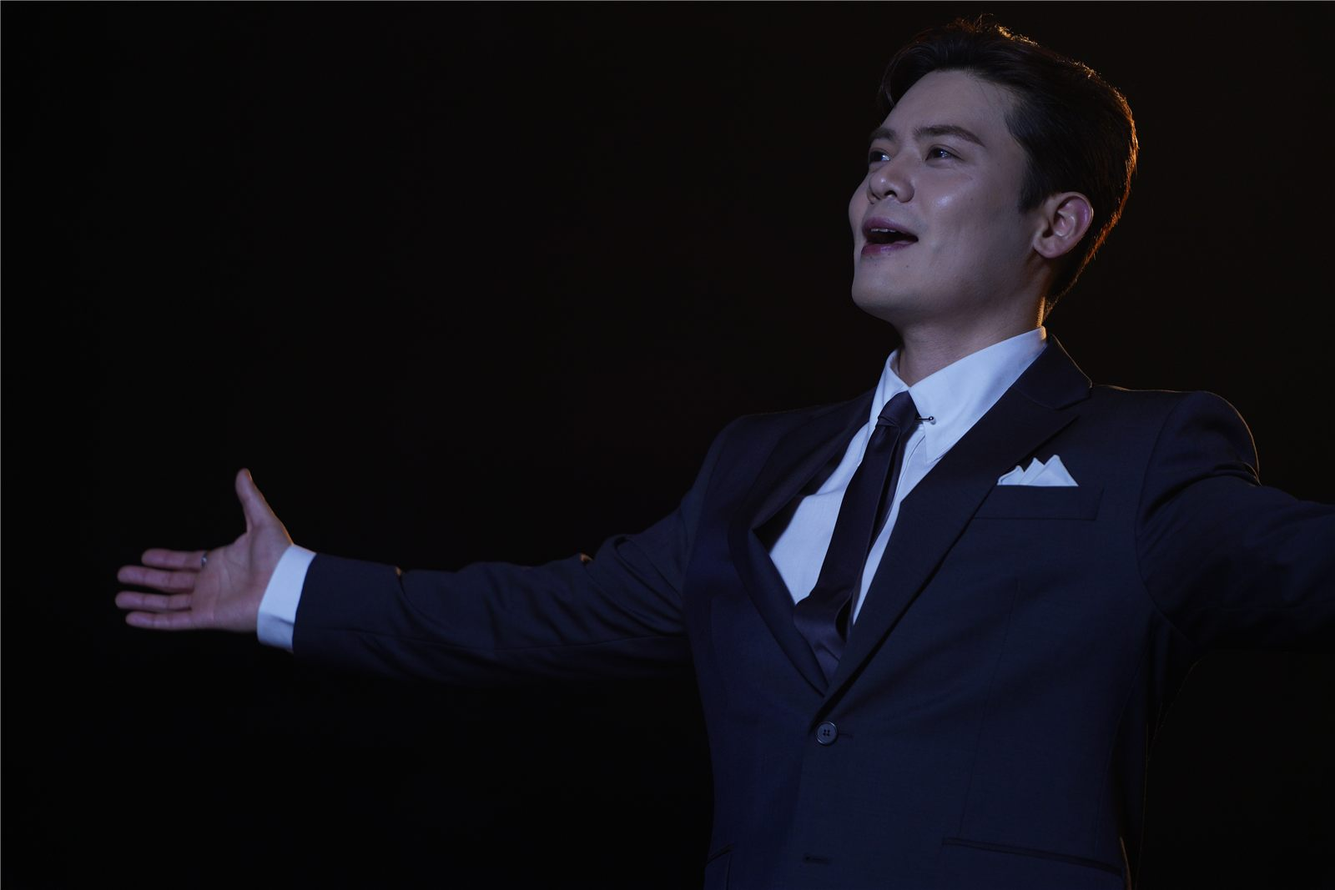
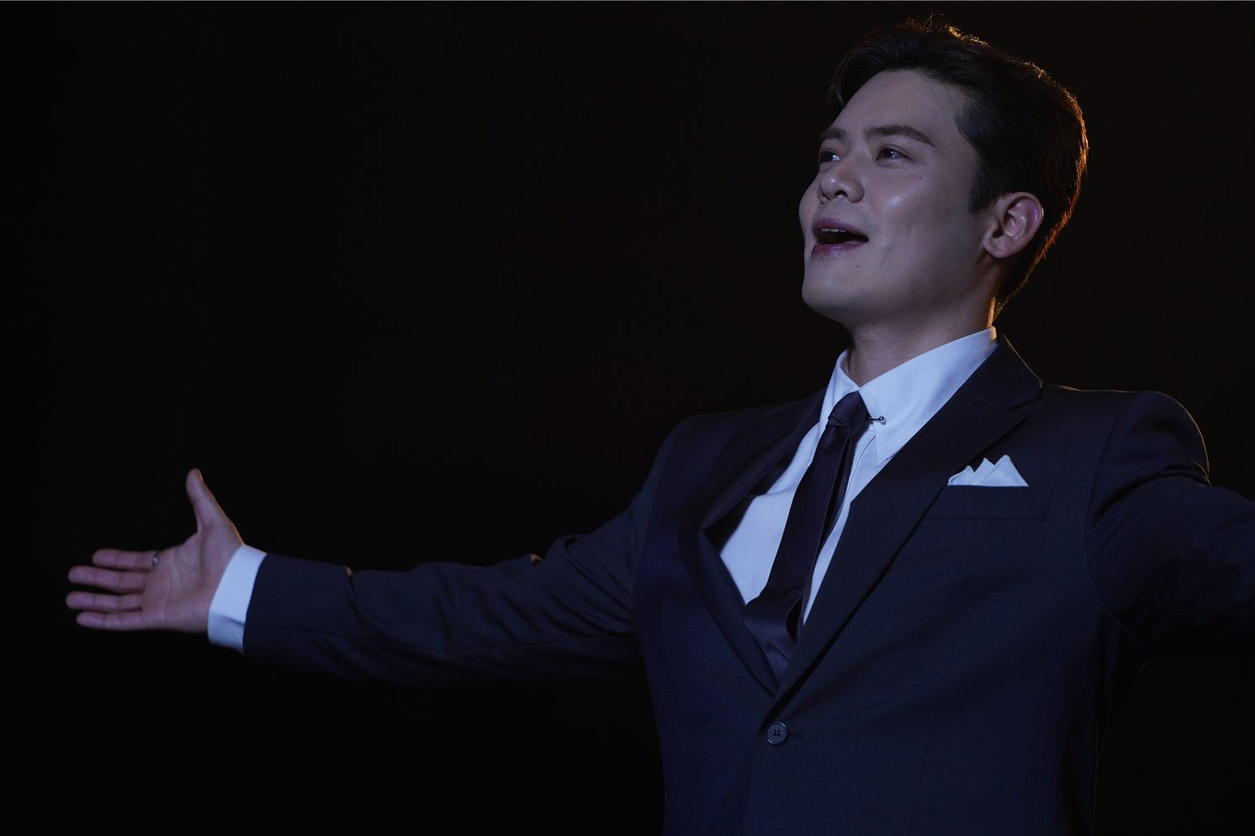
전후비교 2번: 보정후와 같은 영역으로 보정전 크롭 (NCC 정합)

diff --git a/js/manifest.js b/js/manifest.js
@@ -1,1 +1,1 @@
-const MANIFEST = [{"p":"표지(디자인).jpg","w":1600,"h":1178},{"p":"표지(포토).jpg","w":1600,"h":1178},{"p":"Photo/보정 전_후/1 보정전.jpg","w":1600,"h":1067},{"p":"Photo/보정 전_후/1 보정후.jpg","w":1600,"h":1067},{"p":"Photo/보정 전_후/10 보정전.jpg","w":1600,"h":900},{"p":"Photo/보정 전_후/10 보정후.jpg","w":1600,"h":900},{"p":"Photo/보정 전_후/11 보정전.jpg","w":1600,"h":900},{"p":"Photo/보정 전_후/11 보정후.jpg","w":1600,"h":900},{"p":"Photo/보정 전_후/2 보정전.jpg","w":1600,"h":1067},{"p":"Photo/보정 전_후/2 보정후.jpg","w":1600,"h":1067},{"p":"Photo/보정 전_후/3 보정전.jpg","w":1600,"h":1067},{"p":"Photo/보정 전_후/3 보정후.jpg","w":1600,"h":1067},{"p":"Photo/보정 전_후/4 보정전.jpg","w":1600,"h":1067},{"p":"Photo/보정 전_후/4 보정후.jpg","w":1600,"h":1067},{"p":"Photo/보정 전_후/5 보정전.jpg","w":1600,"h":1067},{"p":"Photo/보정 전_후/5 보정후.jpg","w":1600,"h":1067},{"p":"Photo/보정 전_후/6 보정전.jpg","w":1600,"h":1067},{"p":"Photo/보정 전_후/6 보정후.jpg","w":1600,"h":1067},{"p":"Photo/보정 전_후/7 보정전.jpg","w":1503,"h":2257},{"p":"Photo/보정 전_후/7 보정후.jpg","w":1600,"h":2400},{"p":"Photo/보정 전_후/8 보정전.jpg","w":1600,"h":2400},{"p":"Photo/보정 전_후/8 보정후.jpg","w":1600,"h":2400},{"p":"Photo/보정 전_후/9 보정전.jpg","w":1600,"h":1067},{"p":"Photo/보정 전_후/9 보정후.jpg","w":1600,"h":1067},{"p":"Photo/사진 보정/ZB1/IMG_2732.jpg","w":1279,"h":1599},{"p":"Photo/사진 보정/ZB1/IMG_2735.jpg","w":1280,"h":1600},{"p":"Photo/사진 보정/ZB1/IMG_2736.jpg","w":1279,"h":1599},{"p":"Photo/사진 보정/ZB1/KakaoTalk_Photo_2024-07-16-21-44-44-001.jpg","w":1080,"h":1440},{"p":"Photo/사진 보정/ZB1/KakaoTalk_Photo_2024-07-16-21-44-45-003.jpg","w":1080,"h":1440},{"p":"Photo/사진 보정/ZB1/KakaoTalk_Photo_2024-07-16-22-18-38-001.jpg","w":1600,"h":1200},{"p":"Photo/사진 보정/ZB1/KakaoTalk_Photo_2024-09-15-16-23-57-004.jpg","w":1280,"h":1707},{"p":"Photo/사진 보정/ZB1/KakaoTalk_Photo_2024-09-15-16-23-58-011.jpg","w":1280,"h":1707},{"p":"Photo/사진 보정/ZB1/KakaoTalk_Photo_2024-09-20-19-52-52-001.jpg","w":1600,"h":2133},{"p":"Photo/사진 보정/ZB1/KakaoTalk_Photo_2024-09-21-23-08-23-004.jpg","w":1080,"h":1440},{"p":"Photo/사진 보정/ZB1/KakaoTalk_Photo_2024-09-22-22-04-35-001.jpg","w":1058,"h":1411},{"p":"Photo/사진 보정/ZB1/KakaoTalk_Photo_2024-10-12-23-06-18-002.jpg","w":960,"h":1280},{"p":"Photo/사진 보정/ZB1/KakaoTalk_Photo_2025-04-19-01-57-40 001.jpg","w":1179,"h":1453},{"p":"Photo/사진 보정/ZB1/KakaoTalk_Photo_2025-04-19-01-57-41 002.jpg","w":1179,"h":1469},{"p":"Photo/사진 보정/ZB1/KakaoTalk_Photo_2025-04-19-01-57-41 003.jpg","w":1179,"h":1469},{"p":"Photo/사진 보정/ZB1/KakaoTalk_Photo_2025-04-19-01-57-41 004.jpg","w":1179,"h":1459},{"p":"Photo/사진 보정/ZB1/KakaoTalk_Photo_2025-04-19-01-57-43 013.jpg","w":1163,"h":1459},{"p":"Photo/사진 보정/ZB1/KakaoTalk_Photo_2025-04-19-01-57-43 014.jpg","w":1179,"h":1465},{"p":"Photo/사진 보정/ZB1/KakaoTalk_Photo_2025-04-19-01-57-43 015.jpg","w":1179,"h":1459},{"p":"Photo/사진 보정/시네마/[시네마] 모비딕 자켓1.jpg","w":1600,"h":1066},{"p":"Photo/사진 보정/시네마/[시네마] 모비딕 자켓2.jpg","w":1600,"h":1066},{"p":"Photo/사진 보정/시네마/[시네마] 모비딕 자켓3.jpg","w":1600,"h":1066},{"p":"Photo/사진 보정/시네마/[시네마] 모비딕 자켓4.jpg","w":1600,"h":1066},{"p":"Photo/사진 보정/시네마/[시네마] 모비딕 자켓5.jpg","w":1600,"h":1066},{"p":"Photo/사진 보정/시네마/[시네마] 청춘콘썰트1.jpg","w":1334,"h":2000},{"p":"Photo/사진 보정/시네마/[시네마] 청춘콘썰트2.jpg","w":1600,"h":1066},{"p":"Photo/사진 보정/시네마/[시네마] 청춘콘썰트3.jpg","w":1600,"h":1066},{"p":"Photo/사진 보정/시네마/[시네마] 청춘콘썰트4.jpg","w":1334,"h":2000},{"p":"Photo/사진 보정/시네마/[시네마] 청춘콘썰트5.jpg","w":1600,"h":1066},{"p":"Photo/사진 보정/시네마/[시네마] 청춘콘썰트6.jpg","w":1600,"h":1067},{"p":"Photo/촬영 및 보정/ZB1/GoodsoBad MV 비하인드 1.jpg","w":1179,"h":1510},{"p":"Photo/촬영 및 보정/ZB1/GoodsoBad MV 비하인드 2.jpg","w":1179,"h":1513},{"p":"Photo/촬영 및 보정/ZB1/GoodsoBad MV 비하인드 3.jpg","w":1179,"h":1482},{"p":"Photo/촬영 및 보정/ZB1/GoodsoBad MV 비하인드 4.jpg","w":1179,"h":1459},{"p":"Photo/촬영 및 보정/ZB1/마담피가로 화보 비하인드 1.jpg","w":1179,"h":1463},{"p":"Photo/촬영 및 보정/ZB1/마담피가로 화보 비하인드 2.jpg","w":1179,"h":1456},{"p":"Photo/촬영 및 보정/ZB1/마담피가로 화보 비하인드 3.jpg","w":1179,"h":1459},{"p":"Photo/촬영 및 보정/ZB1/마담피가로 화보 비하인드 4.jpg","w":1179,"h":1466},{"p":"Photo/촬영 및 보정/ZB1/영상 촬영/ZEROBASEONE 'GoodsoBad' MV 비하인드 1.jpg","w":1179,"h":1965},{"p":"Photo/촬영 및 보정/ZB1/영상 촬영/ZEROBASEONE 'GoodsoBad' MV 비하인드 2.jpg","w":1179,"h":1965},{"p":"Photo/촬영 및 보정/ZB1/영상 촬영/ZEROBASEONE 'GoodsoBad' MV 비하인드 3.jpg","w":1179,"h":1965},{"p":"Photo/촬영 및 보정/ZB1/영상 촬영/ZEROBASEONE 'GoodsoBad' MV 비하인드 4.jpg","w":1179,"h":1965},{"p":"Photo/촬영 및 보정/ZB1/영상 촬영/ZEROBASEONE 'GoodsoBad' MV 비하인드 5.jpg","w":1179,"h":1965},{"p":"Photo/촬영 및 보정/ZB1/영상 촬영/ZEROBASEONE 'GoodsoBad' MV 비하인드 6.jpg","w":1179,"h":1965},{"p":"Photo/촬영 및 보정/ZB1/영상 촬영/ZEROBASEONE 'GoodsoBad' MV 비하인드 7.jpg","w":1179,"h":2096},{"p":"Photo/촬영 및 보정/ZB1/영상 촬영/ZEROBASEONE 'GoodsoBad' MV 비하인드 8.jpg","w":1179,"h":2096},{"p":"Photo/촬영 및 보정/ZB1/영상 촬영/ZEROBASEONE 'GoodsoBad' MV 비하인드 9.jpg","w":1179,"h":2096},{"p":"Photo/촬영 및 보정/ZB1/영상 촬영/ZEROBASEONE 'GoodsoBad' MV 비하인드 10.jpg","w":1179,"h":2096},{"p":"Photo/촬영 및 보정/ZB1/영상 촬영/ZEROBASEONE 'GoodsoBad' MV 비하인드 11.jpg","w":1179,"h":2096},{"p":"Photo/촬영 및 보정/ZB1/영상 촬영/ZEROBASEONE 'GoodsoBad' MV 비하인드 12.jpg","w":1179,"h":2096},{"p":"Photo/촬영 및 보정/ZB1/영상 촬영/ZEROBASEONE 'GoodsoBad' MV 비하인드 13.jpg","w":1179,"h":2096},{"p":"Photo/촬영 및 보정/유채훈-일몬도비하인드/무대 DSC05353 셀렉 보정본 copy.jpg","w":1600,"h":1066},{"p":"Photo/촬영 및 보정/유채훈-일몬도비하인드/무대 DSC05935 셀렉 보정본 copy.jpg","w":1600,"h":1066},{"p":"Photo/촬영 및 보정/유채훈-일몬도비하인드/무대 DSC06022 셀렉 보정본 copy.jpg","w":1600,"h":1066},{"p":"Photo/촬영 및 보정/유채훈-일몬도비하인드/무대 DSC06262 셀렉 보정본 copy.jpg","w":1334,"h":2000},{"p":"Photo/촬영 및 보정/유채훈-일몬도비하인드/무대 DSC06371 셀렉 보정본 copy.jpg","w":1600,"h":1066},{"p":"Photo/촬영 및 보정/유채훈-일몬도비하인드/무대 DSC06573 셀렉 보정본 copy.jpg","w":1600,"h":1066},{"p":"Photo/촬영 및 보정/유채훈-일몬도비하인드/무대 DSC06782 셀렉 보정본 copy.jpg","w":1600,"h":1066},{"p":"Photo/촬영 및 보정/유채훈-일몬도비하인드/무대 DSC06799 셀렉 보정본 copy.jpg","w":1600,"h":1066},{"p":"Photo/촬영 및 보정/유채훈-일몬도비하인드/무대 DSC07052 셀렉 보정본 copy.jpg","w":1600,"h":1066},{"p":"Photo/촬영 및 보정/유채훈-일몬도비하인드/무대 DSC07096 셀렉 보정본 copy.jpg","w":1600,"h":1066},{"p":"Photo/촬영 및 보정/유채훈-일몬도비하인드/무대 DSC07332 셀렉 보정본 copy.jpg","w":1600,"h":1066},{"p":"Photo/촬영 및 보정/유채훈-일몬도비하인드/무대 DSC07368 셀렉 보정본 copy.jpg","w":1333,"h":2000},{"p":"Photo/촬영 및 보정/유채훈-포디움콘서트/DSC01893-셀렉-보정본.jpg","w":1600,"h":1067},{"p":"Photo/촬영 및 보정/유채훈-포디움콘서트/DSC02064-셀렉-보정본.jpg","w":1600,"h":1067},{"p":"Photo/촬영 및 보정/유채훈-포디움콘서트/DSC02195-셀렉-보정본.jpg","w":1600,"h":1067},{"p":"Photo/촬영 및 보정/유채훈-포디움콘서트/DSC02247-셀렉-보정본.jpg","w":1600,"h":1067},{"p":"Photo/촬영 및 보정/유채훈-포디움콘서트/DSC02271-셀렉-보정본.jpg","w":1600,"h":1067},{"p":"Photo/촬영 및 보정/유채훈-포디움콘서트/DSC02328-셀렉-보정본.jpg","w":1600,"h":1067},{"p":"Photo/촬영 및 보정/유채훈-포디움콘서트/DSC02492-셀렉-보정본.jpg","w":1600,"h":1067},{"p":"Photo/촬영 및 보정/유채훈-포디움콘서트/DSC04307-셀렉-보정본.jpg","w":1600,"h":1067},{"p":"디자인/Gaho/다이아몬드/1. 로고 티저.jpg","w":1600,"h":533},{"p":"디자인/Gaho/다이아몬드/2. 자켓티저 1-1.jpg","w":1600,"h":2000},{"p":"디자인/Gaho/다이아몬드/2. 자켓티저 1-2.jpg","w":1600,"h":2000},{"p":"디자인/Gaho/다이아몬드/2. 자켓티저 1-3.jpg","w":1600,"h":2000},{"p":"디자인/Gaho/다이아몬드/2. 자켓티저 2-1.jpg","w":1600,"h":2000},{"p":"디자인/Gaho/다이아몬드/2. 자켓티저 2-2.jpg","w":1600,"h":2000},{"p":"디자인/Gaho/다이아몬드/2. 자켓티저 2-3.jpg","w":1600,"h":2000},{"p":"디자인/Gaho/다이아몬드/2. 자켓티저 3-1.jpg","w":1600,"h":2000},{"p":"디자인/Gaho/다이아몬드/2. 자켓티저 3-2.jpg","w":1600,"h":2000},{"p":"디자인/Gaho/다이아몬드/MV-스틸컷-국내-1.jpg","w":1600,"h":1200},{"p":"디자인/Gaho/다이아몬드/MV-스틸컷-국내-2.jpg","w":1600,"h":1200},{"p":"디자인/Gaho/다이아몬드/MV-스틸컷-국내-3.jpg","w":1500,"h":2000},{"p":"디자인/Gaho/다이아몬드/SNS-1.jpg","w":1600,"h":1600},{"p":"디자인/Gaho/다이아몬드/SNS-2.jpg","w":1600,"h":1600},{"p":"디자인/Gaho/다이아몬드/SNS-3.jpg","w":1600,"h":1600},{"p":"디자인/Gaho/다이아몬드/SNS-4.jpg","w":1600,"h":1600},{"p":"디자인/Gaho/다이아몬드/SNS-5.jpg","w":1600,"h":1600},{"p":"디자인/Gaho/다이아몬드/[가호] Diamond 상세이미지 (1000X4498).jpg","w":1000,"h":4498},{"p":"디자인/Gaho/다이아몬드/리릭포스터.jpg","w":1500,"h":2000},{"p":"디자인/Gaho/다이아몬드/앨범커버.jpg","w":680,"h":680},{"p":"디자인/Gaho/다이아몬드/트랙리스트22.jpg","w":1600,"h":1600},{"p":"디자인/Gaho/다이아몬드/폴라포이드1.jpg","w":1500,"h":1500},{"p":"디자인/Gaho/다이아몬드/폴라포이드2.jpg","w":1500,"h":1500},{"p":"디자인/Gaho/다이아몬드/폴라포이드3.jpg","w":1500,"h":1500},{"p":"디자인/Gaho/다이아몬드/폴라포이드4.jpg","w":1500,"h":1500},{"p":"디자인/Gaho/다이아몬드/폴라포이드5.jpg","w":1500,"h":1500},{"p":"디자인/Gaho/온리유/1_02_1.jpg","w":1501,"h":2001},{"p":"디자인/Gaho/온리유/2_02_1.jpg","w":1501,"h":2001},{"p":"디자인/Gaho/온리유/3_02_1.jpg","w":1501,"h":2001},{"p":"디자인/Gaho/온리유/3_02_2.jpg","w":1501,"h":2001},{"p":"디자인/Gaho/온리유/Lyrics-포스터-가로2.jpg","w":1600,"h":1200},{"p":"디자인/Gaho/온리유/MV-스틸컷-커버1-1.jpg","w":1501,"h":2001},{"p":"디자인/Gaho/온리유/MV-스틸컷-커버1-2.jpg","w":1500,"h":2001},{"p":"디자인/Gaho/온리유/MV-스틸컷-커버1-3.jpg","w":1501,"h":2000},{"p":"디자인/Gaho/온리유/MV-스틸컷-커버1-4.jpg","w":1501,"h":2000},{"p":"디자인/Gaho/온리유/MV-스틸컷-커버2-1.jpg","w":1600,"h":1200},{"p":"디자인/Gaho/온리유/MV-스틸컷-커버2-2.jpg","w":1500,"h":2000},{"p":"디자인/Gaho/온리유/MV-스틸컷-커버2-3.jpg","w":1501,"h":2000},{"p":"디자인/Gaho/온리유/MV-스틸컷-커버2-4.jpg","w":1501,"h":2000},{"p":"디자인/Gaho/온리유/MV-스틸컷-커버3-2.jpg","w":1500,"h":2000},{"p":"디자인/Gaho/온리유/MV-스틸컷-커버3-3.jpg","w":1500,"h":2000},{"p":"디자인/Gaho/온리유/MV-스틸컷-커버3-4.jpg","w":1500,"h":2000},{"p":"디자인/Gaho/온리유/MV-스틸컷-커버3-5.jpg","w":1500,"h":2000},{"p":"디자인/Gaho/온리유/[가호] Only You 온라인커버(1500X1500).jpg","w":1500,"h":1500},{"p":"디자인/Gaho/다이아몬드/마플샵 굿즈/다이아몬드 블랙반팔티.jpg","w":1200,"h":1200},{"p":"디자인/Gaho/다이아몬드/마플샵 굿즈/다이아몬드 스택컵.jpg","w":1200,"h":1200},{"p":"디자인/Gaho/다이아몬드/마플샵 굿즈/다이아몬드 키링.jpg","w":1200,"h":1200},{"p":"디자인/Gaho/다이아몬드/마플샵 굿즈/다이아몬드 텀블러.jpg","w":1200,"h":1200},{"p":"디자인/Gaho/다이아몬드/마플샵 굿즈/다이아몬드 패브릭포스터.jpg","w":1200,"h":1200},{"p":"디자인/Gaho/다이아몬드/마플샵 굿즈/다이아몬드 핀버튼.jpg","w":1200,"h":1200},{"p":"디자인/Gaho/다이아몬드/마플샵 굿즈/다이아몬드 하얀반팔티.jpg","w":1200,"h":1200},{"p":"디자인/Gaho/온리유/마플샵 굿즈/온리유 반팔.png","w":1289,"h":1286},{"p":"디자인/Gaho/온리유/마플샵 굿즈/온리유 키링.png","w":1284,"h":1284},{"p":"디자인/Gaho/온리유/마플샵 굿즈/온리유 패브릭.png","w":1284,"h":1289},{"p":"디자인/Gaho/온리유/마플샵 굿즈/온리유 핀버튼.png","w":1286,"h":1289},{"p":"디자인/Gaho/온리유/마플샵 굿즈/온리유 후드티.png","w":1284,"h":1288},{"p":"디자인/ZB1/GoodsoBad 바이럴 이미지1.jpg","w":1080,"h":1920},{"p":"디자인/ZB1/GoodsoBad 바이럴 이미지2.jpg","w":1080,"h":1920},{"p":"디자인/ZB1/GoodsoBad 바이럴 이미지3.png","w":640,"h":100},{"p":"디자인/ZB1/GoodsoBad 바이럴 이미지4.png","w":300,"h":250},{"p":"디자인/ZB1/GoodsoBad 바이럴 이미지5.png","w":1029,"h":258},{"p":"디자인/ZB1/GoodsoBad 바이럴 이미지6.png","w":1200,"h":627},{"p":"디자인/ZB1/GoodsoBad 바이럴 이미지7.png","w":1200,"h":627},{"p":"디자인/ZB1/GoodsoBad 바이럴 이미지8.png","w":1200,"h":627},{"p":"디자인/ZB1/GoodsoBad 쇼케이스 현수막(현장사진)1.jpg","w":1440,"h":1081},{"p":"디자인/ZB1/GoodsoBad 쇼케이스 현수막(현장사진)2.jpg","w":1080,"h":1440},{"p":"디자인/ZB1/GoodsoBad 쇼케이스 현수막(현장사진)3.jpg","w":1080,"h":1440},{"p":"디자인/ZB1/GoodsoBad 쇼케이스 현수막(현장사진)4.jpg","w":1080,"h":1440},{"p":"디자인/ZB1/GoodsoBad 쇼케이스 현수막1.png","w":1492,"h":1973},{"p":"디자인/ZB1/GoodsoBad 쇼케이스 현수막2.png","w":1581,"h":236},{"p":"디자인/ZB1/GoodsoBad 쇼케이스 현수막3.png","w":1587,"h":874},{"p":"디자인/ZB1/GoodsoBad 쇼케이스 현수막4.png","w":700,"h":1882},{"p":"디자인/ZB1/GoodsoBad뮤비조회수축전(20M).jpg","w":1440,"h":1920},{"p":"디자인/ZB1/GoodsoBad뮤비조회수축전(40M).jpg","w":1440,"h":1920},{"p":"디자인/ZB1/GoodsoBad숏터뷰썸네일-건욱.jpg","w":1280,"h":720},{"p":"디자인/ZB1/GoodsoBad숏터뷰썸네일-규빈.jpg","w":1280,"h":720},{"p":"디자인/ZB1/GoodsoBad숏터뷰썸네일-리키.jpg","w":1280,"h":720},{"p":"디자인/ZB1/GoodsoBad숏터뷰썸네일-매튜.jpg","w":1280,"h":720},{"p":"디자인/ZB1/GoodsoBad숏터뷰썸네일-유지태.jpg","w":1280,"h":720},{"p":"디자인/ZB1/GoodsoBad숏터뷰썸네일-유진.jpg","w":1280,"h":720},{"p":"디자인/ZB1/GoodsoBad숏터뷰썸네일-장하오.jpg","w":1280,"h":720},{"p":"디자인/ZB1/GoodsoBad숏터뷰썸네일-지웅.jpg","w":1280,"h":720},{"p":"디자인/ZB1/GoodsoBad숏터뷰썸네일-태래.jpg","w":1280,"h":720},{"p":"디자인/ZB1/GoodsoBad숏터뷰썸네일-한빈.jpg","w":1280,"h":720},{"p":"디자인/ZB1/GoodsoBad활동마무리(웨이보)매튜.jpg","w":1080,"h":1356},{"p":"디자인/ZB1/GoodsoBad활동마무리(웨이보)지웅.jpg","w":1080,"h":1356},{"p":"디자인/ZB1/GoodsoBad활동마무리(웨이보)하오.jpg","w":1080,"h":1356},{"p":"디자인/ZB1/GoodsoBad활동마무리(웨이보)한빈.jpg","w":1080,"h":1356},{"p":"디자인/ZB1/ZB1 미니 4집 팬쇼케이스 라이브 감사 페이지.jpg","w":1600,"h":900},{"p":"디자인/ZB1/ZB1 미니 4집 팬쇼케이스 라이브 대기 페이지.jpg","w":1600,"h":900},{"p":"디자인/ZB1/ZB1 미니 4집 팬쇼케이스 라이브 썸네일.jpg","w":1600,"h":900},{"p":"디자인/ZB1/ZB1-미니-4집-팬쇼케이스-라이브-썸네일-스토리용.jpg","w":1080,"h":1920},{"p":"디자인/ZB1/인스타필터-거니니.png","w":1080,"h":1920},{"p":"디자인/ZB1/인스타필터-태니니.png","w":1080,"h":1920},{"p":"디자인/ZB1/인스타필터-튜니니.png","w":1080,"h":1920},{"p":"디자인/ZB1/인스타필터-하니니(촬영용).jpg","w":1179,"h":2096},{"p":"디자인/ZB1/인스타필터-하니니.png","w":1080,"h":1920},{"p":"디자인/ZB1/지비티빙 롯데월드 자컨 포스터.jpg","w":1080,"h":1920},{"p":"디자인/ZB1/콘서트 SNS 공지1.png","w":1080,"h":1920},{"p":"디자인/ZB1/콘서트 SNS 공지2.png","w":1080,"h":1920},{"p":"디자인/ZB1/콘서트 SNS 공지3.png","w":1080,"h":1920},{"p":"디자인/ZB1/콘서트 SNS 공지4.png","w":1080,"h":1920},{"p":"디자인/기탁/비욘드 콘서트 디자인/Beyond-포스터.jpg","w":1191,"h":1684},{"p":"디자인/기탁/비욘드 콘서트 디자인/LED-송출-코너-안내-이미지-(2816X1024px)-금쪽상담소.jpg","w":1600,"h":582},{"p":"디자인/기탁/비욘드 콘서트 디자인/LED-송출-코너-안내-이미지-(2816X1024px)-기탁퀴즈.jpg","w":1600,"h":582},{"p":"디자인/기탁/비욘드 콘서트 디자인/LED-송출-코너-안내-이미지-(2816X1024px)-딸기마켓.jpg","w":1600,"h":582},{"p":"디자인/기탁/비욘드 콘서트 디자인/LED-송출-코너-안내-이미지-(2816X1024px)-포스터.jpg","w":1600,"h":582},{"p":"디자인/기탁/비욘드 콘서트 디자인/상세이미지(960X5092).jpg","w":960,"h":5128},{"p":"디자인/기탁/비하인드 SNS 이미지/시소 뮤비 비하인드 포스트 이미지 (정방형).jpg","w":1350,"h":1350},{"p":"디자인/기탁/비하인드 SNS 이미지/시소 자켓 비하인드 포스트 이미지 (스토리용).jpg","w":1080,"h":1920},{"p":"디자인/기탁/비하인드 SNS 이미지/썸머 뮤비 포스트-이미지-(정방형).jpg","w":1350,"h":1350},{"p":"디자인/기탁/비하인드 SNS 이미지/썸머 자켓 포스트-이미지-(스토리용).jpg","w":1080,"h":1920},{"p":"디자인/디어유버블/img_bubble_popup_cnema_startsnow.jpg","w":1200,"h":2000},{"p":"디자인/디어유버블/img_bubble_popup_gaho,youchaehoon_startsnow.jpg","w":1200,"h":2000},{"p":"디자인/디어유버블/img_bubble_sns_youchaehoon_startsnow.jpg","w":975,"h":975},{"p":"디자인/라포엠/라포엠100만뷰축전이미지1.png","w":1500,"h":1500},{"p":"디자인/라포엠/라포엠100만뷰축전이미지2.png","w":1500,"h":1500},{"p":"디자인/유채훈/유음세 credit.png","w":1600,"h":3504},{"p":"디자인/유채훈/유음세 썸네일.jpg","w":1600,"h":900},{"p":"디자인/유채훈/비하인드 SNS 이미지/리필콘서트 포스트 이미지 (정방형).jpg","w":1350,"h":1350},{"p":"디자인/유채훈/비하인드 SNS 이미지/유음세 포스트-이미지-(정방형).jpg","w":1350,"h":1350},{"p":"디자인/유채훈/비하인드 SNS 이미지/일몬도비하인드 포스트-이미지-(스토리용).jpg","w":1080,"h":1920},{"p":"디자인/유채훈/비하인드 SNS 이미지/콘텐츠비하인드 포스트-이미지-(스토리용).jpg","w":1080,"h":1920},{"p":"디자인/임시완-팬콘/메인-포스터_상세이미지-(국문)1.jpg","w":750,"h":1578},{"p":"디자인/임시완-팬콘/메인-포스터_상세이미지-(국문)2.jpg","w":750,"h":5114},{"p":"디자인/임시완-팬콘/현수막 시안01.jpg","w":1600,"h":220},{"p":"디자인/정엽x유채훈 ReFeel 콘서트/상세페이지1.jpg","w":750,"h":4730},{"p":"디자인/정엽x유채훈 ReFeel 콘서트/상세페이지2.jpg","w":750,"h":1350},{"p":"디자인/정엽x유채훈 ReFeel 콘서트/포스터.jpg","w":1600,"h":2263},{"p":"디자인/정엽x유채훈 ReFeel 콘서트/현수막.jpg","w":1600,"h":222},{"p":"영상 썸네일/EP.1.jpg","w":1600,"h":900},{"p":"영상 썸네일/Let-It-Snow-썸네일.png","w":1600,"h":900},{"p":"영상 썸네일/[기탁] 2022 크리스마스 캐롤 커버 썸네일.png","w":1600,"h":900},{"p":"디자인/Gaho/온리유/Only You 로고.png","w":900,"h":545},{"p":"디자인/ZB1/GoodsoBad숏터뷰로고디자인.png","w":1600,"h":363},{"p":"디자인/ZB1/지비티빙-롯데월드-자컨-포스터-로고-디자인.png","w":1600,"h":655}];
+const MANIFEST = [{"p":"표지(디자인).jpg","w":1600,"h":1178},{"p":"표지(포토).jpg","w":1600,"h":1178},{"p":"Photo/보정 전_후/1 보정전.jpg","w":1600,"h":1067},{"p":"Photo/보정 전_후/1 보정후.jpg","w":1600,"h":1067},{"p":"Photo/보정 전_후/10 보정전.jpg","w":1600,"h":900},{"p":"Photo/보정 전_후/10 보정후.jpg","w":1600,"h":900},{"p":"Photo/보정 전_후/11 보정전.jpg","w":1600,"h":900},{"p":"Photo/보정 전_후/11 보정후.jpg","w":1600,"h":900},{"p":"Photo/보정 전_후/2 보정전.jpg","w":1505,"h":1002},{"p":"Photo/보정 전_후/2 보정후.jpg","w":1600,"h":1067},{"p":"Photo/보정 전_후/3 보정전.jpg","w":1600,"h":1067},{"p":"Photo/보정 전_후/3 보정후.jpg","w":1600,"h":1067},{"p":"Photo/보정 전_후/4 보정전.jpg","w":1600,"h":1067},{"p":"Photo/보정 전_후/4 보정후.jpg","w":1600,"h":1067},{"p":"Photo/보정 전_후/5 보정전.jpg","w":1600,"h":1067},{"p":"Photo/보정 전_후/5 보정후.jpg","w":1600,"h":1067},{"p":"Photo/보정 전_후/6 보정전.jpg","w":1600,"h":1067},{"p":"Photo/보정 전_후/6 보정후.jpg","w":1600,"h":1067},{"p":"Photo/보정 전_후/7 보정전.jpg","w":1503,"h":2257},{"p":"Photo/보정 전_후/7 보정후.jpg","w":1600,"h":2400},{"p":"Photo/보정 전_후/8 보정전.jpg","w":1600,"h":2400},{"p":"Photo/보정 전_후/8 보정후.jpg","w":1600,"h":2400},{"p":"Photo/보정 전_후/9 보정전.jpg","w":1600,"h":1067},{"p":"Photo/보정 전_후/9 보정후.jpg","w":1600,"h":1067},{"p":"Photo/사진 보정/ZB1/IMG_2732.jpg","w":1279,"h":1599},{"p":"Photo/사진 보정/ZB1/IMG_2735.jpg","w":1280,"h":1600},{"p":"Photo/사진 보정/ZB1/IMG_2736.jpg","w":1279,"h":1599},{"p":"Photo/사진 보정/ZB1/KakaoTalk_Photo_2024-07-16-21-44-44-001.jpg","w":1080,"h":1440},{"p":"Photo/사진 보정/ZB1/KakaoTalk_Photo_2024-07-16-21-44-45-003.jpg","w":1080,"h":1440},{"p":"Photo/사진 보정/ZB1/KakaoTalk_Photo_2024-07-16-22-18-38-001.jpg","w":1600,"h":1200},{"p":"Photo/사진 보정/ZB1/KakaoTalk_Photo_2024-09-15-16-23-57-004.jpg","w":1280,"h":1707},{"p":"Photo/사진 보정/ZB1/KakaoTalk_Photo_2024-09-15-16-23-58-011.jpg","w":1280,"h":1707},{"p":"Photo/사진 보정/ZB1/KakaoTalk_Photo_2024-09-20-19-52-52-001.jpg","w":1600,"h":2133},{"p":"Photo/사진 보정/ZB1/KakaoTalk_Photo_2024-09-21-23-08-23-004.jpg","w":1080,"h":1440},{"p":"Photo/사진 보정/ZB1/KakaoTalk_Photo_2024-09-22-22-04-35-001.jpg","w":1058,"h":1411},{"p":"Photo/사진 보정/ZB1/KakaoTalk_Photo_2024-10-12-23-06-18-002.jpg","w":960,"h":1280},{"p":"Photo/사진 보정/ZB1/KakaoTalk_Photo_2025-04-19-01-57-40 001.jpg","w":1179,"h":1453},{"p":"Photo/사진 보정/ZB1/KakaoTalk_Photo_2025-04-19-01-57-41 002.jpg","w":1179,"h":1469},{"p":"Photo/사진 보정/ZB1/KakaoTalk_Photo_2025-04-19-01-57-41 003.jpg","w":1179,"h":1469},{"p":"Photo/사진 보정/ZB1/KakaoTalk_Photo_2025-04-19-01-57-41 004.jpg","w":1179,"h":1459},{"p":"Photo/사진 보정/ZB1/KakaoTalk_Photo_2025-04-19-01-57-43 013.jpg","w":1163,"h":1459},{"p":"Photo/사진 보정/ZB1/KakaoTalk_Photo_2025-04-19-01-57-43 014.jpg","w":1179,"h":1465},{"p":"Photo/사진 보정/ZB1/KakaoTalk_Photo_2025-04-19-01-57-43 015.jpg","w":1179,"h":1459},{"p":"Photo/사진 보정/시네마/[시네마] 모비딕 자켓1.jpg","w":1600,"h":1066},{"p":"Photo/사진 보정/시네마/[시네마] 모비딕 자켓2.jpg","w":1600,"h":1066},{"p":"Photo/사진 보정/시네마/[시네마] 모비딕 자켓3.jpg","w":1600,"h":1066},{"p":"Photo/사진 보정/시네마/[시네마] 모비딕 자켓4.jpg","w":1600,"h":1066},{"p":"Photo/사진 보정/시네마/[시네마] 모비딕 자켓5.jpg","w":1600,"h":1066},{"p":"Photo/사진 보정/시네마/[시네마] 청춘콘썰트1.jpg","w":1334,"h":2000},{"p":"Photo/사진 보정/시네마/[시네마] 청춘콘썰트2.jpg","w":1600,"h":1066},{"p":"Photo/사진 보정/시네마/[시네마] 청춘콘썰트3.jpg","w":1600,"h":1066},{"p":"Photo/사진 보정/시네마/[시네마] 청춘콘썰트4.jpg","w":1334,"h":2000},{"p":"Photo/사진 보정/시네마/[시네마] 청춘콘썰트5.jpg","w":1600,"h":1066},{"p":"Photo/사진 보정/시네마/[시네마] 청춘콘썰트6.jpg","w":1600,"h":1067},{"p":"Photo/촬영 및 보정/ZB1/GoodsoBad MV 비하인드 1.jpg","w":1179,"h":1510},{"p":"Photo/촬영 및 보정/ZB1/GoodsoBad MV 비하인드 2.jpg","w":1179,"h":1513},{"p":"Photo/촬영 및 보정/ZB1/GoodsoBad MV 비하인드 3.jpg","w":1179,"h":1482},{"p":"Photo/촬영 및 보정/ZB1/GoodsoBad MV 비하인드 4.jpg","w":1179,"h":1459},{"p":"Photo/촬영 및 보정/ZB1/마담피가로 화보 비하인드 1.jpg","w":1179,"h":1463},{"p":"Photo/촬영 및 보정/ZB1/마담피가로 화보 비하인드 2.jpg","w":1179,"h":1456},{"p":"Photo/촬영 및 보정/ZB1/마담피가로 화보 비하인드 3.jpg","w":1179,"h":1459},{"p":"Photo/촬영 및 보정/ZB1/마담피가로 화보 비하인드 4.jpg","w":1179,"h":1466},{"p":"Photo/촬영 및 보정/ZB1/영상 촬영/ZEROBASEONE 'GoodsoBad' MV 비하인드 1.jpg","w":1179,"h":1965},{"p":"Photo/촬영 및 보정/ZB1/영상 촬영/ZEROBASEONE 'GoodsoBad' MV 비하인드 2.jpg","w":1179,"h":1965},{"p":"Photo/촬영 및 보정/ZB1/영상 촬영/ZEROBASEONE 'GoodsoBad' MV 비하인드 3.jpg","w":1179,"h":1965},{"p":"Photo/촬영 및 보정/ZB1/영상 촬영/ZEROBASEONE 'GoodsoBad' MV 비하인드 4.jpg","w":1179,"h":1965},{"p":"Photo/촬영 및 보정/ZB1/영상 촬영/ZEROBASEONE 'GoodsoBad' MV 비하인드 5.jpg","w":1179,"h":1965},{"p":"Photo/촬영 및 보정/ZB1/영상 촬영/ZEROBASEONE 'GoodsoBad' MV 비하인드 6.jpg","w":1179,"h":1965},{"p":"Photo/촬영 및 보정/ZB1/영상 촬영/ZEROBASEONE 'GoodsoBad' MV 비하인드 7.jpg","w":1179,"h":2096},{"p":"Photo/촬영 및 보정/ZB1/영상 촬영/ZEROBASEONE 'GoodsoBad' MV 비하인드 8.jpg","w":1179,"h":2096},{"p":"Photo/촬영 및 보정/ZB1/영상 촬영/ZEROBASEONE 'GoodsoBad' MV 비하인드 9.jpg","w":1179,"h":2096},{"p":"Photo/촬영 및 보정/ZB1/영상 촬영/ZEROBASEONE 'GoodsoBad' MV 비하인드 10.jpg","w":1179,"h":2096},{"p":"Photo/촬영 및 보정/ZB1/영상 촬영/ZEROBASEONE 'GoodsoBad' MV 비하인드 11.jpg","w":1179,"h":2096},{"p":"Photo/촬영 및 보정/ZB1/영상 촬영/ZEROBASEONE 'GoodsoBad' MV 비하인드 12.jpg","w":1179,"h":2096},{"p":"Photo/촬영 및 보정/ZB1/영상 촬영/ZEROBASEONE 'GoodsoBad' MV 비하인드 13.jpg","w":1179,"h":2096},{"p":"Photo/촬영 및 보정/유채훈-일몬도비하인드/무대 DSC05353 셀렉 보정본 copy.jpg","w":1600,"h":1066},{"p":"Photo/촬영 및 보정/유채훈-일몬도비하인드/무대 DSC05935 셀렉 보정본 copy.jpg","w":1600,"h":1066},{"p":"Photo/촬영 및 보정/유채훈-일몬도비하인드/무대 DSC06022 셀렉 보정본 copy.jpg","w":1600,"h":1066},{"p":"Photo/촬영 및 보정/유채훈-일몬도비하인드/무대 DSC06262 셀렉 보정본 copy.jpg","w":1334,"h":2000},{"p":"Photo/촬영 및 보정/유채훈-일몬도비하인드/무대 DSC06371 셀렉 보정본 copy.jpg","w":1600,"h":1066},{"p":"Photo/촬영 및 보정/유채훈-일몬도비하인드/무대 DSC06573 셀렉 보정본 copy.jpg","w":1600,"h":1066},{"p":"Photo/촬영 및 보정/유채훈-일몬도비하인드/무대 DSC06782 셀렉 보정본 copy.jpg","w":1600,"h":1066},{"p":"Photo/촬영 및 보정/유채훈-일몬도비하인드/무대 DSC06799 셀렉 보정본 copy.jpg","w":1600,"h":1066},{"p":"Photo/촬영 및 보정/유채훈-일몬도비하인드/무대 DSC07052 셀렉 보정본 copy.jpg","w":1600,"h":1066},{"p":"Photo/촬영 및 보정/유채훈-일몬도비하인드/무대 DSC07096 셀렉 보정본 copy.jpg","w":1600,"h":1066},{"p":"Photo/촬영 및 보정/유채훈-일몬도비하인드/무대 DSC07332 셀렉 보정본 copy.jpg","w":1600,"h":1066},{"p":"Photo/촬영 및 보정/유채훈-일몬도비하인드/무대 DSC07368 셀렉 보정본 copy.jpg","w":1333,"h":2000},{"p":"Photo/촬영 및 보정/유채훈-포디움콘서트/DSC01893-셀렉-보정본.jpg","w":1600,"h":1067},{"p":"Photo/촬영 및 보정/유채훈-포디움콘서트/DSC02064-셀렉-보정본.jpg","w":1600,"h":1067},{"p":"Photo/촬영 및 보정/유채훈-포디움콘서트/DSC02195-셀렉-보정본.jpg","w":1600,"h":1067},{"p":"Photo/촬영 및 보정/유채훈-포디움콘서트/DSC02247-셀렉-보정본.jpg","w":1600,"h":1067},{"p":"Photo/촬영 및 보정/유채훈-포디움콘서트/DSC02271-셀렉-보정본.jpg","w":1600,"h":1067},{"p":"Photo/촬영 및 보정/유채훈-포디움콘서트/DSC02328-셀렉-보정본.jpg","w":1600,"h":1067},{"p":"Photo/촬영 및 보정/유채훈-포디움콘서트/DSC02492-셀렉-보정본.jpg","w":1600,"h":1067},{"p":"Photo/촬영 및 보정/유채훈-포디움콘서트/DSC04307-셀렉-보정본.jpg","w":1600,"h":1067},{"p":"디자인/Gaho/다이아몬드/1. 로고 티저.jpg","w":1600,"h":533},{"p":"디자인/Gaho/다이아몬드/2. 자켓티저 1-1.jpg","w":1600,"h":2000},{"p":"디자인/Gaho/다이아몬드/2. 자켓티저 1-2.jpg","w":1600,"h":2000},{"p":"디자인/Gaho/다이아몬드/2. 자켓티저 1-3.jpg","w":1600,"h":2000},{"p":"디자인/Gaho/다이아몬드/2. 자켓티저 2-1.jpg","w":1600,"h":2000},{"p":"디자인/Gaho/다이아몬드/2. 자켓티저 2-2.jpg","w":1600,"h":2000},{"p":"디자인/Gaho/다이아몬드/2. 자켓티저 2-3.jpg","w":1600,"h":2000},{"p":"디자인/Gaho/다이아몬드/2. 자켓티저 3-1.jpg","w":1600,"h":2000},{"p":"디자인/Gaho/다이아몬드/2. 자켓티저 3-2.jpg","w":1600,"h":2000},{"p":"디자인/Gaho/다이아몬드/MV-스틸컷-국내-1.jpg","w":1600,"h":1200},{"p":"디자인/Gaho/다이아몬드/MV-스틸컷-국내-2.jpg","w":1600,"h":1200},{"p":"디자인/Gaho/다이아몬드/MV-스틸컷-국내-3.jpg","w":1500,"h":2000},{"p":"디자인/Gaho/다이아몬드/SNS-1.jpg","w":1600,"h":1600},{"p":"디자인/Gaho/다이아몬드/SNS-2.jpg","w":1600,"h":1600},{"p":"디자인/Gaho/다이아몬드/SNS-3.jpg","w":1600,"h":1600},{"p":"디자인/Gaho/다이아몬드/SNS-4.jpg","w":1600,"h":1600},{"p":"디자인/Gaho/다이아몬드/SNS-5.jpg","w":1600,"h":1600},{"p":"디자인/Gaho/다이아몬드/[가호] Diamond 상세이미지 (1000X4498).jpg","w":1000,"h":4498},{"p":"디자인/Gaho/다이아몬드/리릭포스터.jpg","w":1500,"h":2000},{"p":"디자인/Gaho/다이아몬드/앨범커버.jpg","w":680,"h":680},{"p":"디자인/Gaho/다이아몬드/트랙리스트22.jpg","w":1600,"h":1600},{"p":"디자인/Gaho/다이아몬드/폴라포이드1.jpg","w":1500,"h":1500},{"p":"디자인/Gaho/다이아몬드/폴라포이드2.jpg","w":1500,"h":1500},{"p":"디자인/Gaho/다이아몬드/폴라포이드3.jpg","w":1500,"h":1500},{"p":"디자인/Gaho/다이아몬드/폴라포이드4.jpg","w":1500,"h":1500},{"p":"디자인/Gaho/다이아몬드/폴라포이드5.jpg","w":1500,"h":1500},{"p":"디자인/Gaho/온리유/1_02_1.jpg","w":1501,"h":2001},{"p":"디자인/Gaho/온리유/2_02_1.jpg","w":1501,"h":2001},{"p":"디자인/Gaho/온리유/3_02_1.jpg","w":1501,"h":2001},{"p":"디자인/Gaho/온리유/3_02_2.jpg","w":1501,"h":2001},{"p":"디자인/Gaho/온리유/Lyrics-포스터-가로2.jpg","w":1600,"h":1200},{"p":"디자인/Gaho/온리유/MV-스틸컷-커버1-1.jpg","w":1501,"h":2001},{"p":"디자인/Gaho/온리유/MV-스틸컷-커버1-2.jpg","w":1500,"h":2001},{"p":"디자인/Gaho/온리유/MV-스틸컷-커버1-3.jpg","w":1501,"h":2000},{"p":"디자인/Gaho/온리유/MV-스틸컷-커버1-4.jpg","w":1501,"h":2000},{"p":"디자인/Gaho/온리유/MV-스틸컷-커버2-1.jpg","w":1600,"h":1200},{"p":"디자인/Gaho/온리유/MV-스틸컷-커버2-2.jpg","w":1500,"h":2000},{"p":"디자인/Gaho/온리유/MV-스틸컷-커버2-3.jpg","w":1501,"h":2000},{"p":"디자인/Gaho/온리유/MV-스틸컷-커버2-4.jpg","w":1501,"h":2000},{"p":"디자인/Gaho/온리유/MV-스틸컷-커버3-2.jpg","w":1500,"h":2000},{"p":"디자인/Gaho/온리유/MV-스틸컷-커버3-3.jpg","w":1500,"h":2000},{"p":"디자인/Gaho/온리유/MV-스틸컷-커버3-4.jpg","w":1500,"h":2000},{"p":"디자인/Gaho/온리유/MV-스틸컷-커버3-5.jpg","w":1500,"h":2000},{"p":"디자인/Gaho/온리유/[가호] Only You 온라인커버(1500X1500).jpg","w":1500,"h":1500},{"p":"디자인/Gaho/다이아몬드/마플샵 굿즈/다이아몬드 블랙반팔티.jpg","w":1200,"h":1200},{"p":"디자인/Gaho/다이아몬드/마플샵 굿즈/다이아몬드 스택컵.jpg","w":1200,"h":1200},{"p":"디자인/Gaho/다이아몬드/마플샵 굿즈/다이아몬드 키링.jpg","w":1200,"h":1200},{"p":"디자인/Gaho/다이아몬드/마플샵 굿즈/다이아몬드 텀블러.jpg","w":1200,"h":1200},{"p":"디자인/Gaho/다이아몬드/마플샵 굿즈/다이아몬드 패브릭포스터.jpg","w":1200,"h":1200},{"p":"디자인/Gaho/다이아몬드/마플샵 굿즈/다이아몬드 핀버튼.jpg","w":1200,"h":1200},{"p":"디자인/Gaho/다이아몬드/마플샵 굿즈/다이아몬드 하얀반팔티.jpg","w":1200,"h":1200},{"p":"디자인/Gaho/온리유/마플샵 굿즈/온리유 반팔.png","w":1289,"h":1286},{"p":"디자인/Gaho/온리유/마플샵 굿즈/온리유 키링.png","w":1284,"h":1284},{"p":"디자인/Gaho/온리유/마플샵 굿즈/온리유 패브릭.png","w":1284,"h":1289},{"p":"디자인/Gaho/온리유/마플샵 굿즈/온리유 핀버튼.png","w":1286,"h":1289},{"p":"디자인/Gaho/온리유/마플샵 굿즈/온리유 후드티.png","w":1284,"h":1288},{"p":"디자인/ZB1/GoodsoBad 바이럴 이미지1.jpg","w":1080,"h":1920},{"p":"디자인/ZB1/GoodsoBad 바이럴 이미지2.jpg","w":1080,"h":1920},{"p":"디자인/ZB1/GoodsoBad 바이럴 이미지3.png","w":640,"h":100},{"p":"디자인/ZB1/GoodsoBad 바이럴 이미지4.png","w":300,"h":250},{"p":"디자인/ZB1/GoodsoBad 바이럴 이미지5.png","w":1029,"h":258},{"p":"디자인/ZB1/GoodsoBad 바이럴 이미지6.png","w":1200,"h":627},{"p":"디자인/ZB1/GoodsoBad 바이럴 이미지7.png","w":1200,"h":627},{"p":"디자인/ZB1/GoodsoBad 바이럴 이미지8.png","w":1200,"h":627},{"p":"디자인/ZB1/GoodsoBad 쇼케이스 현수막(현장사진)1.jpg","w":1440,"h":1081},{"p":"디자인/ZB1/GoodsoBad 쇼케이스 현수막(현장사진)2.jpg","w":1080,"h":1440},{"p":"디자인/ZB1/GoodsoBad 쇼케이스 현수막(현장사진)3.jpg","w":1080,"h":1440},{"p":"디자인/ZB1/GoodsoBad 쇼케이스 현수막(현장사진)4.jpg","w":1080,"h":1440},{"p":"디자인/ZB1/GoodsoBad 쇼케이스 현수막1.png","w":1492,"h":1973},{"p":"디자인/ZB1/GoodsoBad 쇼케이스 현수막2.png","w":1581,"h":236},{"p":"디자인/ZB1/GoodsoBad 쇼케이스 현수막3.png","w":1587,"h":874},{"p":"디자인/ZB1/GoodsoBad 쇼케이스 현수막4.png","w":700,"h":1882},{"p":"디자인/ZB1/GoodsoBad뮤비조회수축전(20M).jpg","w":1440,"h":1920},{"p":"디자인/ZB1/GoodsoBad뮤비조회수축전(40M).jpg","w":1440,"h":1920},{"p":"디자인/ZB1/GoodsoBad숏터뷰썸네일-건욱.jpg","w":1280,"h":720},{"p":"디자인/ZB1/GoodsoBad숏터뷰썸네일-규빈.jpg","w":1280,"h":720},{"p":"디자인/ZB1/GoodsoBad숏터뷰썸네일-리키.jpg","w":1280,"h":720},{"p":"디자인/ZB1/GoodsoBad숏터뷰썸네일-매튜.jpg","w":1280,"h":720},{"p":"디자인/ZB1/GoodsoBad숏터뷰썸네일-유지태.jpg","w":1280,"h":720},{"p":"디자인/ZB1/GoodsoBad숏터뷰썸네일-유진.jpg","w":1280,"h":720},{"p":"디자인/ZB1/GoodsoBad숏터뷰썸네일-장하오.jpg","w":1280,"h":720},{"p":"디자인/ZB1/GoodsoBad숏터뷰썸네일-지웅.jpg","w":1280,"h":720},{"p":"디자인/ZB1/GoodsoBad숏터뷰썸네일-태래.jpg","w":1280,"h":720},{"p":"디자인/ZB1/GoodsoBad숏터뷰썸네일-한빈.jpg","w":1280,"h":720},{"p":"디자인/ZB1/GoodsoBad활동마무리(웨이보)매튜.jpg","w":1080,"h":1356},{"p":"디자인/ZB1/GoodsoBad활동마무리(웨이보)지웅.jpg","w":1080,"h":1356},{"p":"디자인/ZB1/GoodsoBad활동마무리(웨이보)하오.jpg","w":1080,"h":1356},{"p":"디자인/ZB1/GoodsoBad활동마무리(웨이보)한빈.jpg","w":1080,"h":1356},{"p":"디자인/ZB1/ZB1 미니 4집 팬쇼케이스 라이브 감사 페이지.jpg","w":1600,"h":900},{"p":"디자인/ZB1/ZB1 미니 4집 팬쇼케이스 라이브 대기 페이지.jpg","w":1600,"h":900},{"p":"디자인/ZB1/ZB1 미니 4집 팬쇼케이스 라이브 썸네일.jpg","w":1600,"h":900},{"p":"디자인/ZB1/ZB1-미니-4집-팬쇼케이스-라이브-썸네일-스토리용.jpg","w":1080,"h":1920},{"p":"디자인/ZB1/인스타필터-거니니.png","w":1080,"h":1920},{"p":"디자인/ZB1/인스타필터-태니니.png","w":1080,"h":1920},{"p":"디자인/ZB1/인스타필터-튜니니.png","w":1080,"h":1920},{"p":"디자인/ZB1/인스타필터-하니니(촬영용).jpg","w":1179,"h":2096},{"p":"디자인/ZB1/인스타필터-하니니.png","w":1080,"h":1920},{"p":"디자인/ZB1/지비티빙 롯데월드 자컨 포스터.jpg","w":1080,"h":1920},{"p":"디자인/ZB1/콘서트 SNS 공지1.png","w":1080,"h":1920},{"p":"디자인/ZB1/콘서트 SNS 공지2.png","w":1080,"h":1920},{"p":"디자인/ZB1/콘서트 SNS 공지3.png","w":1080,"h":1920},{"p":"디자인/ZB1/콘서트 SNS 공지4.png","w":1080,"h":1920},{"p":"디자인/기탁/비욘드 콘서트 디자인/Beyond-포스터.jpg","w":1191,"h":1684},{"p":"디자인/기탁/비욘드 콘서트 디자인/LED-송출-코너-안내-이미지-(2816X1024px)-금쪽상담소.jpg","w":1600,"h":582},{"p":"디자인/기탁/비욘드 콘서트 디자인/LED-송출-코너-안내-이미지-(2816X1024px)-기탁퀴즈.jpg","w":1600,"h":582},{"p":"디자인/기탁/비욘드 콘서트 디자인/LED-송출-코너-안내-이미지-(2816X1024px)-딸기마켓.jpg","w":1600,"h":582},{"p":"디자인/기탁/비욘드 콘서트 디자인/LED-송출-코너-안내-이미지-(2816X1024px)-포스터.jpg","w":1600,"h":582},{"p":"디자인/기탁/비욘드 콘서트 디자인/상세이미지(960X5092).jpg","w":960,"h":5128},{"p":"디자인/기탁/비하인드 SNS 이미지/시소 뮤비 비하인드 포스트 이미지 (정방형).jpg","w":1350,"h":1350},{"p":"디자인/기탁/비하인드 SNS 이미지/시소 자켓 비하인드 포스트 이미지 (스토리용).jpg","w":1080,"h":1920},{"p":"디자인/기탁/비하인드 SNS 이미지/썸머 뮤비 포스트-이미지-(정방형).jpg","w":1350,"h":1350},{"p":"디자인/기탁/비하인드 SNS 이미지/썸머 자켓 포스트-이미지-(스토리용).jpg","w":1080,"h":1920},{"p":"디자인/디어유버블/img_bubble_popup_cnema_startsnow.jpg","w":1200,"h":2000},{"p":"디자인/디어유버블/img_bubble_popup_gaho,youchaehoon_startsnow.jpg","w":1200,"h":2000},{"p":"디자인/디어유버블/img_bubble_sns_youchaehoon_startsnow.jpg","w":975,"h":975},{"p":"디자인/라포엠/라포엠100만뷰축전이미지1.png","w":1500,"h":1500},{"p":"디자인/라포엠/라포엠100만뷰축전이미지2.png","w":1500,"h":1500},{"p":"디자인/유채훈/유음세 credit.png","w":1600,"h":3504},{"p":"디자인/유채훈/유음세 썸네일.jpg","w":1600,"h":900},{"p":"디자인/유채훈/비하인드 SNS 이미지/리필콘서트 포스트 이미지 (정방형).jpg","w":1350,"h":1350},{"p":"디자인/유채훈/비하인드 SNS 이미지/유음세 포스트-이미지-(정방형).jpg","w":1350,"h":1350},{"p":"디자인/유채훈/비하인드 SNS 이미지/일몬도비하인드 포스트-이미지-(스토리용).jpg","w":1080,"h":1920},{"p":"디자인/유채훈/비하인드 SNS 이미지/콘텐츠비하인드 포스트-이미지-(스토리용).jpg","w":1080,"h":1920},{"p":"디자인/임시완-팬콘/메인-포스터_상세이미지-(국문)1.jpg","w":750,"h":1578},{"p":"디자인/임시완-팬콘/메인-포스터_상세이미지-(국문)2.jpg","w":750,"h":5114},{"p":"디자인/임시완-팬콘/현수막 시안01.jpg","w":1600,"h":220},{"p":"디자인/정엽x유채훈 ReFeel 콘서트/상세페이지1.jpg","w":750,"h":4730},{"p":"디자인/정엽x유채훈 ReFeel 콘서트/상세페이지2.jpg","w":750,"h":1350},{"p":"디자인/정엽x유채훈 ReFeel 콘서트/포스터.jpg","w":1600,"h":2263},{"p":"디자인/정엽x유채훈 ReFeel 콘서트/현수막.jpg","w":1600,"h":222},{"p":"영상 썸네일/EP.1.jpg","w":1600,"h":900},{"p":"영상 썸네일/Let-It-Snow-썸네일.png","w":1600,"h":900},{"p":"영상 썸네일/[기탁] 2022 크리스마스 캐롤 커버 썸네일.png","w":1600,"h":900},{"p":"디자인/Gaho/온리유/Only You 로고.png","w":900,"h":545},{"p":"디자인/ZB1/GoodsoBad숏터뷰로고디자인.png","w":1600,"h":363},{"p":"디자인/ZB1/지비티빙-롯데월드-자컨-포스터-로고-디자인.png","w":1600,"h":655}];
